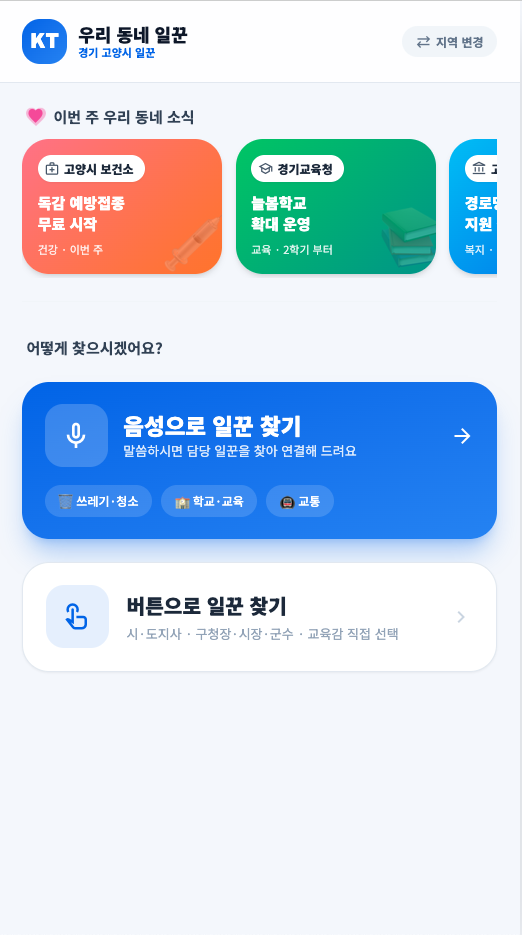
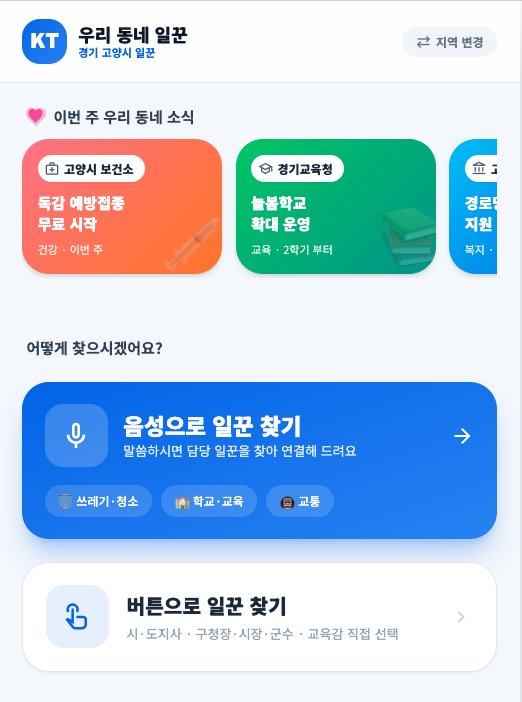
feat(proposal): 표지 좌측을 설치형 키오스크 목업으로 + s-menu 하단여백 제거

diff --git a/KT-제안서.html b/KT-제안서.html
@@ -19,6 +19,10 @@ tailwind.config = { theme: { extend: {
   .slide { min-height:100vh; scroll-snap-align:start; }
   html { scroll-snap-type:y proximity; scroll-behavior:smooth; }
   .phone { border-radius:30px; border:9px solid #1e293b; box-shadow:0 25px 60px -20px rgba(0,0,0,.45); overflow:hidden; background:#000; }
+  /* 키오스크(스탠드형) 목업 */
+  .kiosk { border:14px solid #2d3748; border-top-width:20px; border-bottom-width:20px; border-radius:14px; background:#000; box-shadow:0 25px 60px -20px rgba(0,0,0,.5); overflow:hidden; }
+  .kiosk-neck { width:16px; height:36px; margin:0 auto; background:#2d3748; }
+  .kiosk-base { width:72%; height:12px; margin:0 auto; background:linear-gradient(#374151,#1f2937); border-radius:7px; }
   .tag { font-size:12px; font-weight:800; letter-spacing:.04em; }
   @media print { .slide { min-height:auto; page-break-after:always; } html{scroll-snap-type:none;} }
 </style>
@@ -68,9 +72,19 @@ tailwind.config = { theme: { extend: {
         <span class="bg-white/15 rounded-full px-3.5 py-1.5 text-sm font-bold">👵 디지털 포용</span>
       </div>
     </div>
-    <div class="flex justify-center gap-4">
-      <div class="phone w-[150px] sm:w-[210px] rotate-[-4deg]"><img src="assets/proposal/s-menu.png?v=20260622b" alt="메뉴 화면"/></div>
-      <div class="phone w-[150px] sm:w-[210px] rotate-[4deg] mt-10 hidden sm:block"><img src="assets/proposal/s-voice.png?v=20260622b" alt="음성 대화 화면"/></div>
+    <div class="flex justify-center items-end gap-5">
+      <!-- 키오스크(스탠드형) 목업 -->
+      <div class="flex flex-col items-center">
+        <div class="kiosk w-[160px] sm:w-[210px]"><img src="assets/proposal/s-menu.png?v=20260622c" alt="키오스크 메뉴 화면"/></div>
+        <div class="kiosk-neck"></div>
+        <div class="kiosk-base"></div>
+        <p class="text-[11px] text-blue-200 font-bold mt-1.5">설치형 키오스크</p>
+      </div>
+      <!-- 모바일 목업 -->
+      <div class="hidden sm:flex flex-col items-center mb-6">
+        <div class="phone w-[185px] rotate-[3deg]"><img src="assets/proposal/s-voice.png?v=20260622c" alt="모바일 음성 대화"/></div>
+        <p class="text-[11px] text-blue-200 font-bold mt-3.5 -rotate-0">모바일</p>
+      </div>
     </div>
   </div>
 </section>